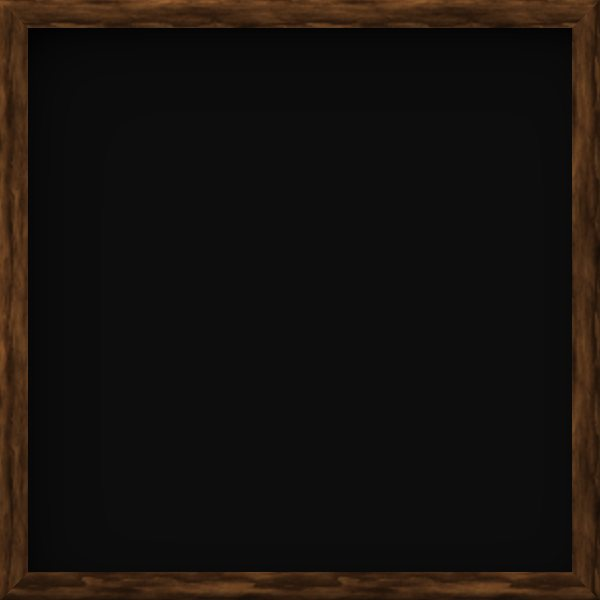
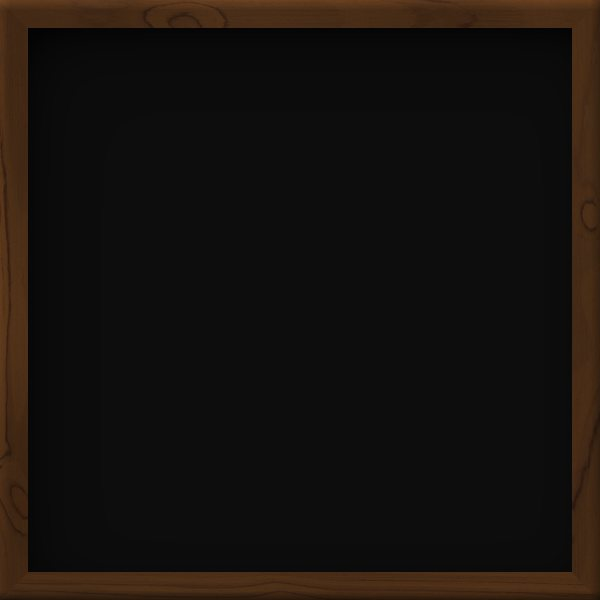
Swap Homey's licensed textures for CC0 and original work
Seven of Homey's pictures were built from material never cleared for use:
the URBAN 128x resource pack (Aryan Nikose, All Rights Reserved) and a Euro
Tile Store product photo. They are regenerated here from sources that need
no permission, under the same names, so nothing in the code changes.

- Wood grain comes from Poly Haven's CC0 dark_wood (walnut) and
  teak_veneer (oak); the rug's fibre from its CC0 dirty_carpet.
- The two majolica tiles are original drawings in the tradition, not
  traces, glazed and ringed as before.
- The marble and the hallway's front door are generated for the site.

The eight pictures that were already original come out byte-identical.
CREDITS.md now records every file's source and marks the style cleared,
with a history of what the first version used; CLAUDE.md asks that
anything added to static/homey stay original or CC0.

diff --git a/CREDITS.md b/CREDITS.md
@@ -1,0 +1,57 @@
+# Credits and third-party assets
+
+A record of every picture in `web/static/homey/` (the Homey style) and where it
+came from. Kept here rather than beside the pictures because everything under
+`web/static/` is served publicly.
+
+**Status: cleared.** Every file is either original work made for this site or
+built from CC0 (public domain) textures. None of it needs permission or credit.
+
+## CC0 textures from Poly Haven
+
+[Poly Haven](https://polyhaven.com) publishes all its assets under
+[CC0](https://polyhaven.com/license): free to use, change and publish, with no
+credit required. The authors are listed anyway, as a courtesy and so the source
+of each file stays on record. Downloaded 2026-09-30 as 2K colour maps.
+
+| Poly Haven texture | Authors | Used for | Shipped files |
+| --- | --- | --- | --- |
+| [`dark_wood`](https://polyhaven.com/a/dark_wood) | Dario Barresi, Dimitrios Savva, Rico Cilliers | Walnut: the wall boards, the hallway's panelling and door, the floor | `wall-walnut.jpg`, `hall.jpg` |
+| [`teak_veneer`](https://polyhaven.com/a/teak_veneer) | Jenelle van Heerden | Oak: the window frame and the doors tile's frame | `frame-oak.jpg` |
+| [`dirty_carpet`](https://polyhaven.com/a/dirty_carpet) | Rohit Seervi | Fibre detail in the hallway's runner rug, re-tinted green | `hall.jpg` |
+
+The textures were turned so their grain runs along each board, recoloured,
+tiled, and in `hall.jpg` mapped onto the lit 3D hallway.
+
+## Original work
+
+Made for this site from procedural noise and hand-set geometry, using no
+outside images:
+
+- `majolica-a.jpg`, `majolica-b.jpg`, `majolica-ring.jpg`: two majolica-style
+  tiles, a medallion and a floral cross, drawn from scratch in the tradition
+  (not traced), then glazed and bevelled. The ring is a checker of the two.
+- `marble.jpg`: generated white marble.
+- The hallway's front door in `hall.jpg`: raised panels and an oval light,
+  drawn procedurally on the walnut.
+- `wall-sage.jpg`, `frame-gilt.jpg`, `frame-stone.jpg`, `stone.jpg`,
+  `glass-resume.jpg`, `glass-plan.jpg`, `glass-media.jpg`, `glass-opal.jpg`.
+
+## History
+
+The first version of the style (commit `8c7d6f4`) was built partly from
+material that was never cleared for use. On 2026-09-30 every file made from it
+was regenerated from the sources above, and nothing from those sources remains
+in the working tree:
+
+- **URBAN 128x resource pack**, by Aryan Nikose (`urbanresourcepack` on
+  [CurseForge](https://www.curseforge.com/minecraft/texture-packs/urban-free-128x)
+  and [Modrinth](https://modrinth.com/resourcepack/urban_128x)), licensed
+  All Rights Reserved. The site used its `stripped_dark_oak_log`,
+  `spruce_door_top` / `spruce_door_bottom`, `green_wool` and `calcite`
+  textures.
+- **A Euro Tile Store product photograph** of hand-painted majolica tiles
+  (eurotilestore.com), no license found. Two tile designs were cropped from it.
+
+Those earlier versions still exist in git history, in commit `8c7d6f4`, but not
+in the current files.

diff --git a/CLAUDE.md b/CLAUDE.md
@@ -56,9 +56,10 @@ then the tile.
   is never stored: it follows from the theme and is set as `data-style` on
   `<html>` (before first paint too, in `app.html`). Homey's furniture is scoped
   `[data-style='homey']` blocks in `HubFrame`, `IndustriesTile` and `HubGate`,
-  using pictures in `web/static/homey/`. Those came from the Urban 128x resource
-  pack and a Euro Tile Store product photo, with no license found for either;
-  replace them before promoting the style.
+  using pictures in `web/static/homey/`. Every one is original work or built
+  from CC0 Poly Haven textures; `CREDITS.md` lists each file and its source.
+  Keep it that way: anything added there must be original or CC0, with an entry
+  in `CREDITS.md`.
 - **Backdrop** — the card-plate image behind the frame. Its opacity defaults to 50%
   (`cardPlate.svelte.ts`) and can be adjusted in the cog menu.
 
